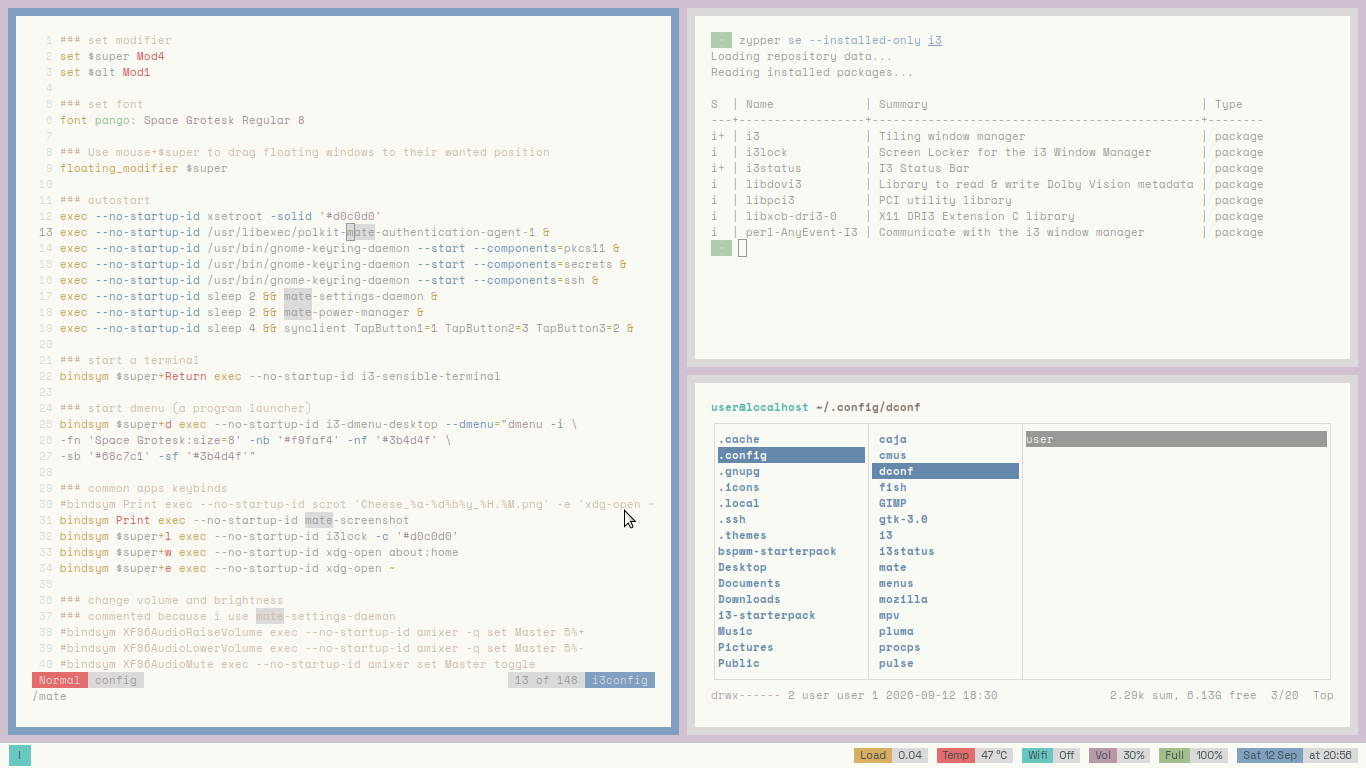
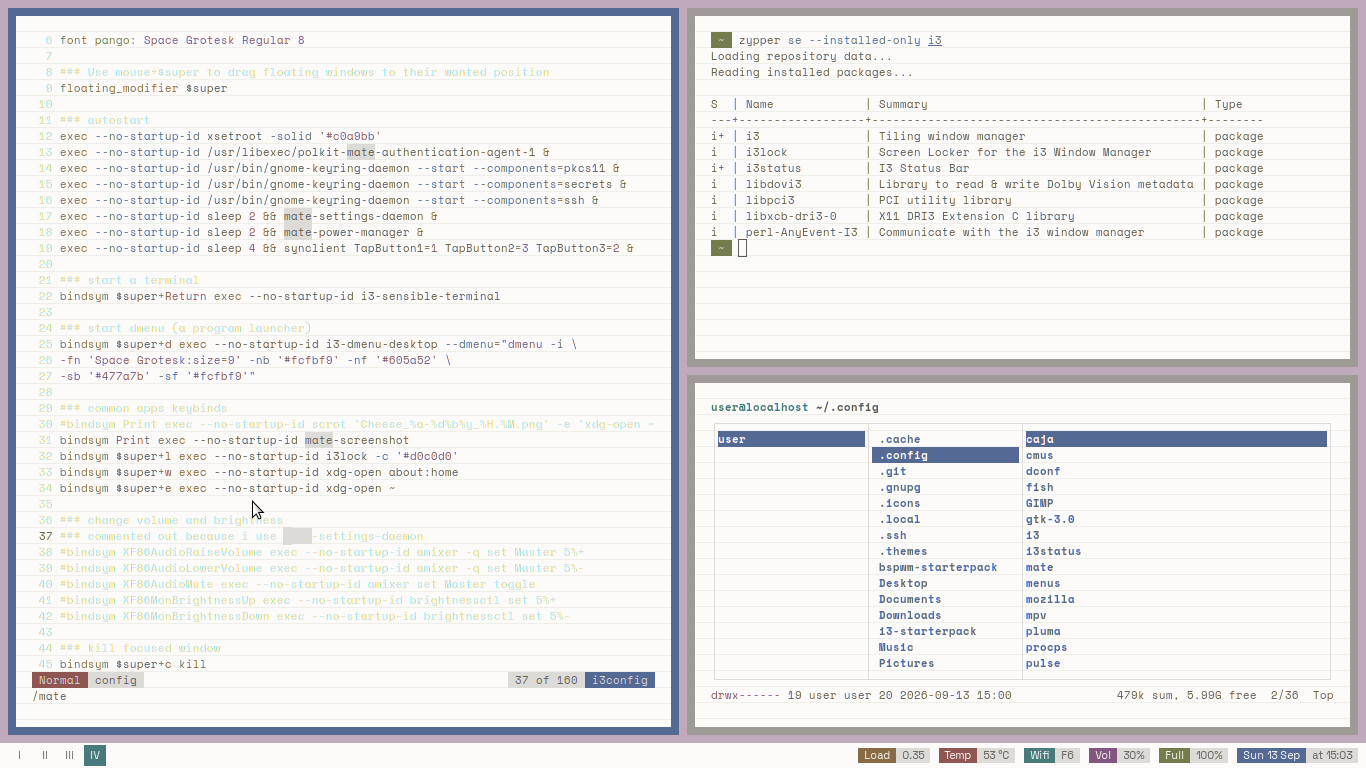
correcting the screenshot & make README more readable

Changed region(s): [[0.0, 0.0, 1.0, 1.0], [0.4305, 0.6562, 0.4612, 0.6875], [0.4305, 0.5312, 0.4612, 0.5625]]

diff --git a/README.md b/README.md
@@ -7,8 +7,11 @@
 
 Now I install i3wm on top of Mate and trying to use available Mate components like
 Mate Terminal, Mate Settings Daemon, Mate Polkit, and many others.
-Mate stores apps setting in dconf that can be restored using
+
+Mate stores app settings in dconf that can be restored using
 `dconf load / < dconf.ini` command.
+
 I also change the GTK Fonts from Poppins to Space Grotesk,
-because Space Grotesk is designed to work with Space Mono, the font I use in the Terminal.
+because Space Grotesk is a font designed to work with Space Mono, the font I use in the Terminal.
+
 The colorscheme is Earl Grey by June Kelly.
